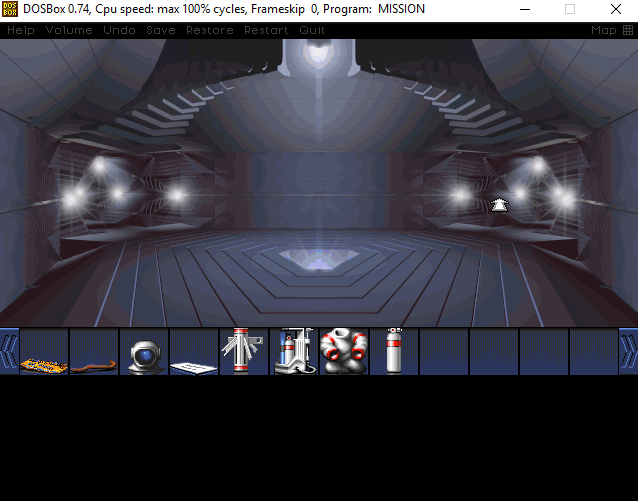
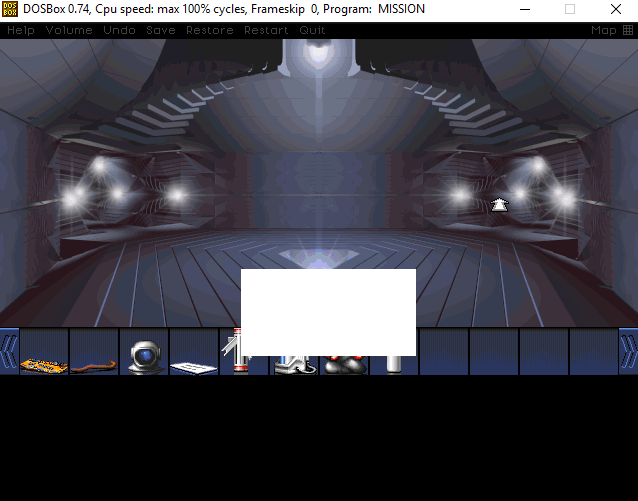
Switching out CLICK_UNTIL for ENTER_UNTIL Adds skipping the elevator announcements Skips one more elevator travel Switches many steps from CLICK to ENTER Current record is 6:43

Changed region(s): [[0.3574, 0.5389, 0.6552, 0.7186]]

diff --git a/recorder.py b/recorder.py
@@ -188,16 +188,17 @@ def targetJiffyInner(im:Image, targetPixel:(int, int, int)):
 #grab a first image, then wait and grab a next image, if nothing has changed, replay the step
 def threadedReattempt(step:Step, middleDelay:float):
     global replayLast
-    sct2 = mss()
-    sct_img = sct2.grab(bbox)
-    im = Image.frombytes("RGB", sct_img.size, sct_img.bgra, "raw", "BGRX")
-    time.sleep(middleDelay)
-    sct_img2 = sct2.grab(bbox)
-    im2 = Image.frombytes("RGB", sct_img2.size, sct_img2.bgra, "raw", "BGRX")
-    dif = ImageChops.difference(im, im2)
-    if dif.getbbox() is None or dif.getbbox()[3] < 20:
-        print("WARNING: REPLAYING ON FOR" + step.imageName)
-        replayLast = True
+    if not delay:
+        sct2 = mss()
+        sct_img = sct2.grab(bbox)
+        im = Image.frombytes("RGB", sct_img.size, sct_img.bgra, "raw", "BGRX")
+        time.sleep(middleDelay)
+        sct_img2 = sct2.grab(bbox)
+        im2 = Image.frombytes("RGB", sct_img2.size, sct_img2.bgra, "raw", "BGRX")
+        dif = ImageChops.difference(im, im2)
+        if dif.getbbox() is None or dif.getbbox()[3] < 20:
+            print("WARNING: REPLAYING ON FOR" + step.imageName)
+            replayLast = True
 
 replayLast = False
 
@@ -213,21 +214,30 @@ def replayStep(step: Step, previousStep:Step):
     if step.readyImage is not None:
         count = 0
         #if difference between current image and reference image is all black
-        ignoreMask = step.readyImage.point(lambda x: 255 if x == 255 else 0)
-        transparencyMask = ignoreMask.convert("1", dither = 0)
-        ignoreMask.putalpha(transparencyMask)
+        if step.hasAlpha:
+            #create out ignore mask, this is an image where any transparent part of the readyImage will be transparent on the check image
+            ignoreMask = step.readyImage
+        else:
+            #create our ignore mask, this is an image where any white part of the readyImage will be white on the check image
+            ignoreMask = step.readyImage.point(lambda x: 255 if x == 255 else 0)
+            transparencyMask = ignoreMask.convert("1", dither = 0)
+            ignoreMask.putalpha(transparencyMask)
         count = 0
         while True:
             sct_img = sct.grab(bbox)
             im = Image.frombytes("RGB", sct_img.size, sct_img.bgra, "raw", "BGRX")
             im = im.convert("RGBA")
-            im = Image.alpha_composite(im, ignoreMask)
-            dif = ImageChops.difference(im, step.readyImage)
+            if step.hasAlpha:
+                print(step.imageName + " has alpha")
+                im2 = Image.alpha_composite(im, ignoreMask)
+                dif = ImageChops.difference(im2, im)
+            else:
+                im = Image.alpha_composite(im, ignoreMask)
+                dif = ImageChops.difference(im, step.readyImage)
             count = count + 1
-            if step.output == OutputType.CLICK_UNTIL:
-                mouse.press(Button.left)
-                time.sleep(0.06)
-                mouse.release(Button.left)
+            if step.output == OutputType.ENTER_UNTIL:
+                keyboard.press(Key.enter)
+                keyboard.release(Key.enter)
             if replayLast:
                 if previousStep:
                     print("WARNING: REPLAYING: " + previousStep.imageName)
@@ -240,6 +250,9 @@ def replayStep(step: Step, previousStep:Step):
                     mouse.release(Button.left)
             if count % 50 == 0:
                 print("Waiting on:" + step.imageName)
+                if step.imageName.endswith("63_96d7a.png"):
+                    dif.show()
+                    dif.save("dif.png")
             if dif.getbbox() is None or dif.getbbox()[3] < 20:
                 break
         else:
@@ -312,12 +325,10 @@ def replayStep(step: Step, previousStep:Step):
         thread.start()
         mouse.press(Button.left)
         time.sleep(0.02)
-
         timedDelays += 0.02
         if delay:
             time.sleep(0.03)
-
-            timedDelays += 0.04
+            timedDelays += 0.03
         mouse.release(Button.left)
     if step.output == OutputType.LONG_CLICK:
         moved = moveMouse(step.clickPos[0] - currentMov[0], (step.clickPos[1] - currentMov[1]))
@@ -406,7 +417,7 @@ def on_release(key):
             mouse.release(Button.left)
             clickImageTemp = clickImage
             clickImage = False
-            recordWalk(OutputType.LONG_CLICK, clickImageTemp, [currentMov[0], currentMov[1]])
+            recordWalk(OutputType.CLICK, clickImageTemp, [currentMov[0], currentMov[1]])
             if ctrlOn:
                 loopUntilChange()
                 clickImage = loopAndGrabImage()
@@ -494,7 +505,10 @@ def on_release(key):
                 stepList = stage.steps
         if key.char == '/':
             startTime = datetime.datetime.utcnow()
-            stages = [parseSteps("d2")]
+            if len(currentStageName) == 0:
+                stages = [parseSteps("d2")]
+            else:
+                stages = [parseSteps(currentStageName)]
             while True:
                 stages.append(parseSteps(stages[len(stages)-1].nextStageName))
                 if stages[len(stages)-1].nextStageName is None:

diff --git a/step.py b/step.py
@@ -9,7 +9,7 @@ class OutputType(Enum):
     W = "W"
     CLICK = "CLK"
     LONG_CLICK = "LONG_CLICK"
-    CLICK_UNTIL = "CLICK_UNTIL"
+    ENTER_UNTIL = "ENTER_UNTIL"
     RESET="RESET"
     DELAY="DELAY"
     ENTER="ENTER"
@@ -31,6 +31,8 @@ class Step:
         self.imageName = imageName
         self.readyImage = readyImage
         self.clickPos = clickPos
+        if readyImage is not None and len(self.readyImage.getbands()) > 3:
+            self.hasAlpha = self.readyImage.histogram()[768] > 0
 
 class Stage:
     def __init__(self, name: str, steps: [], nextStage:str=''):
